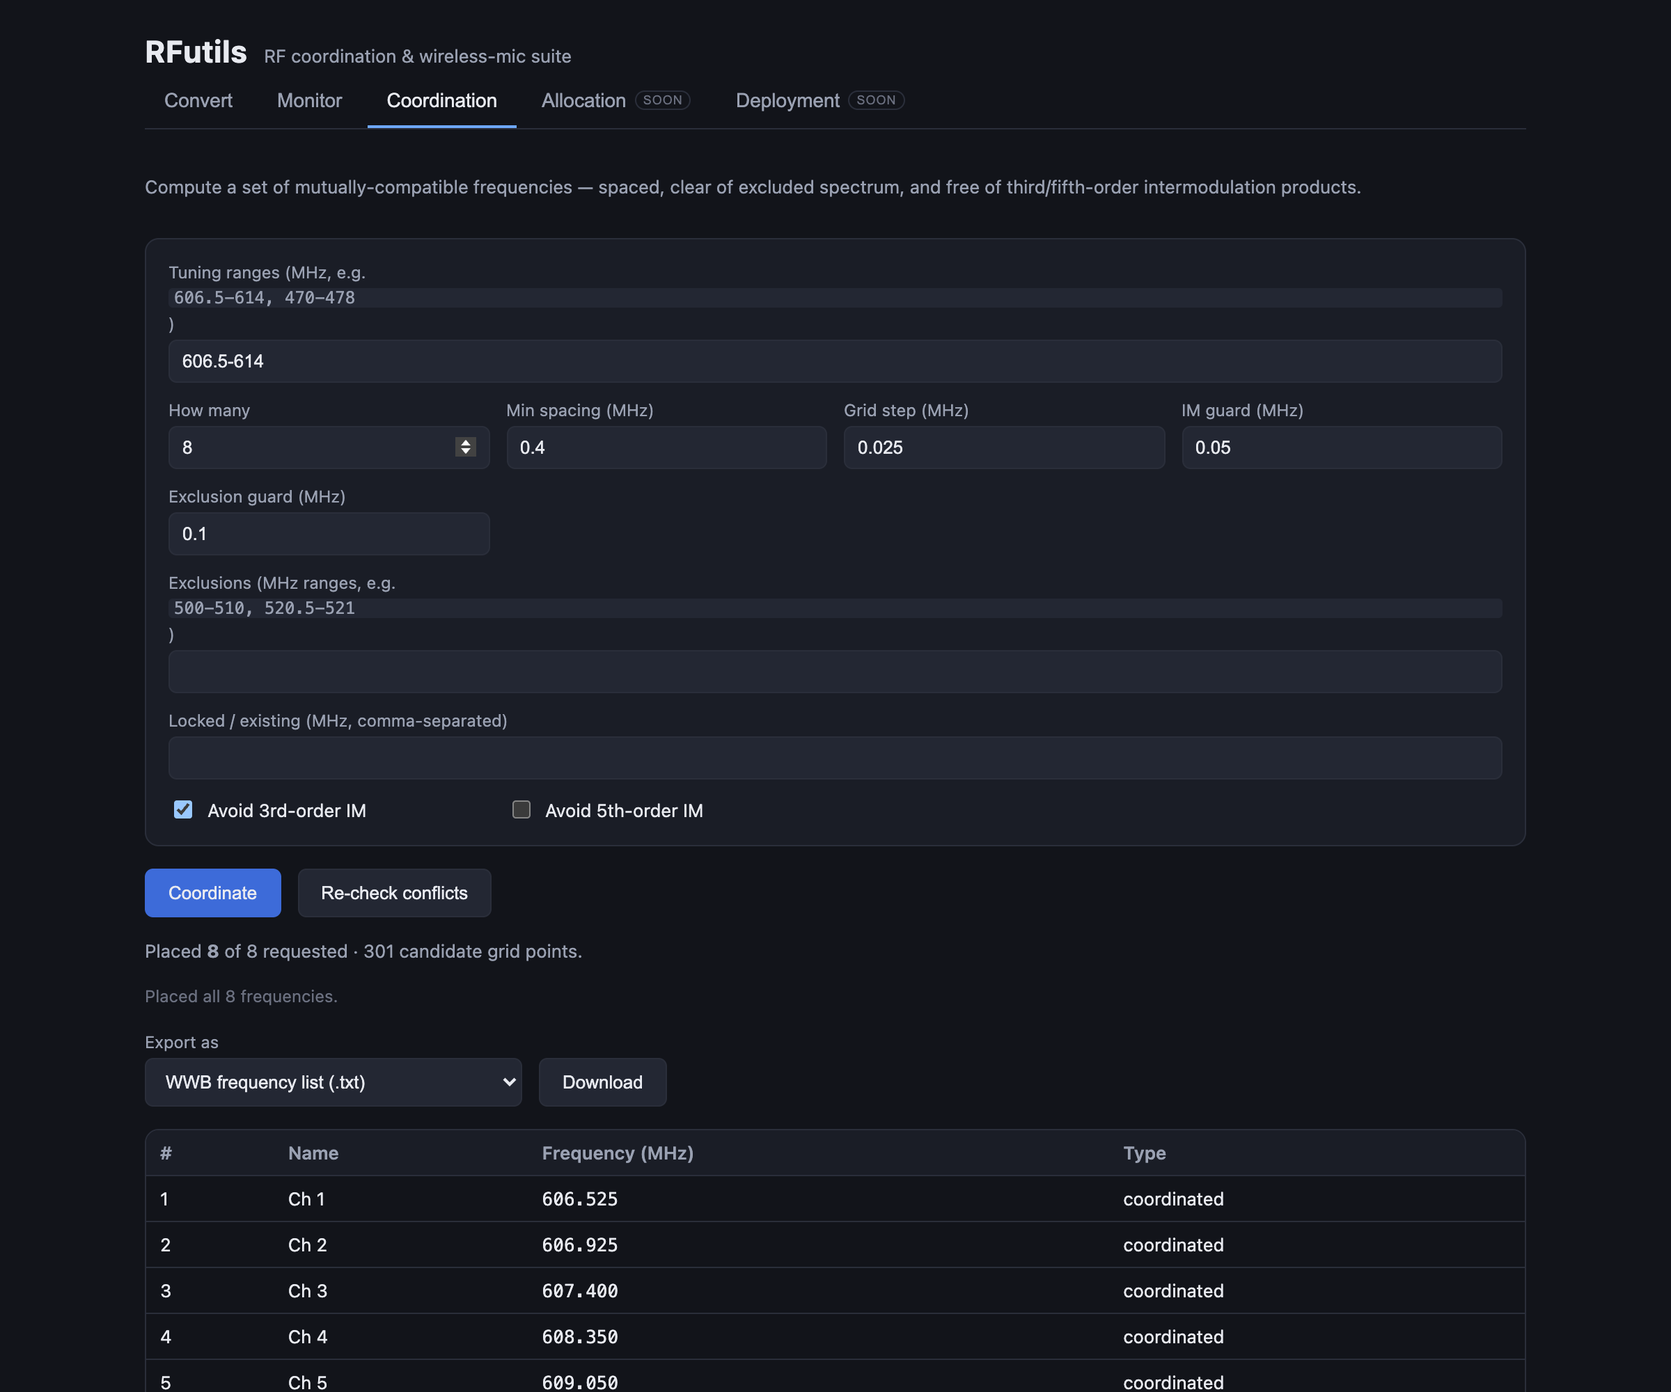
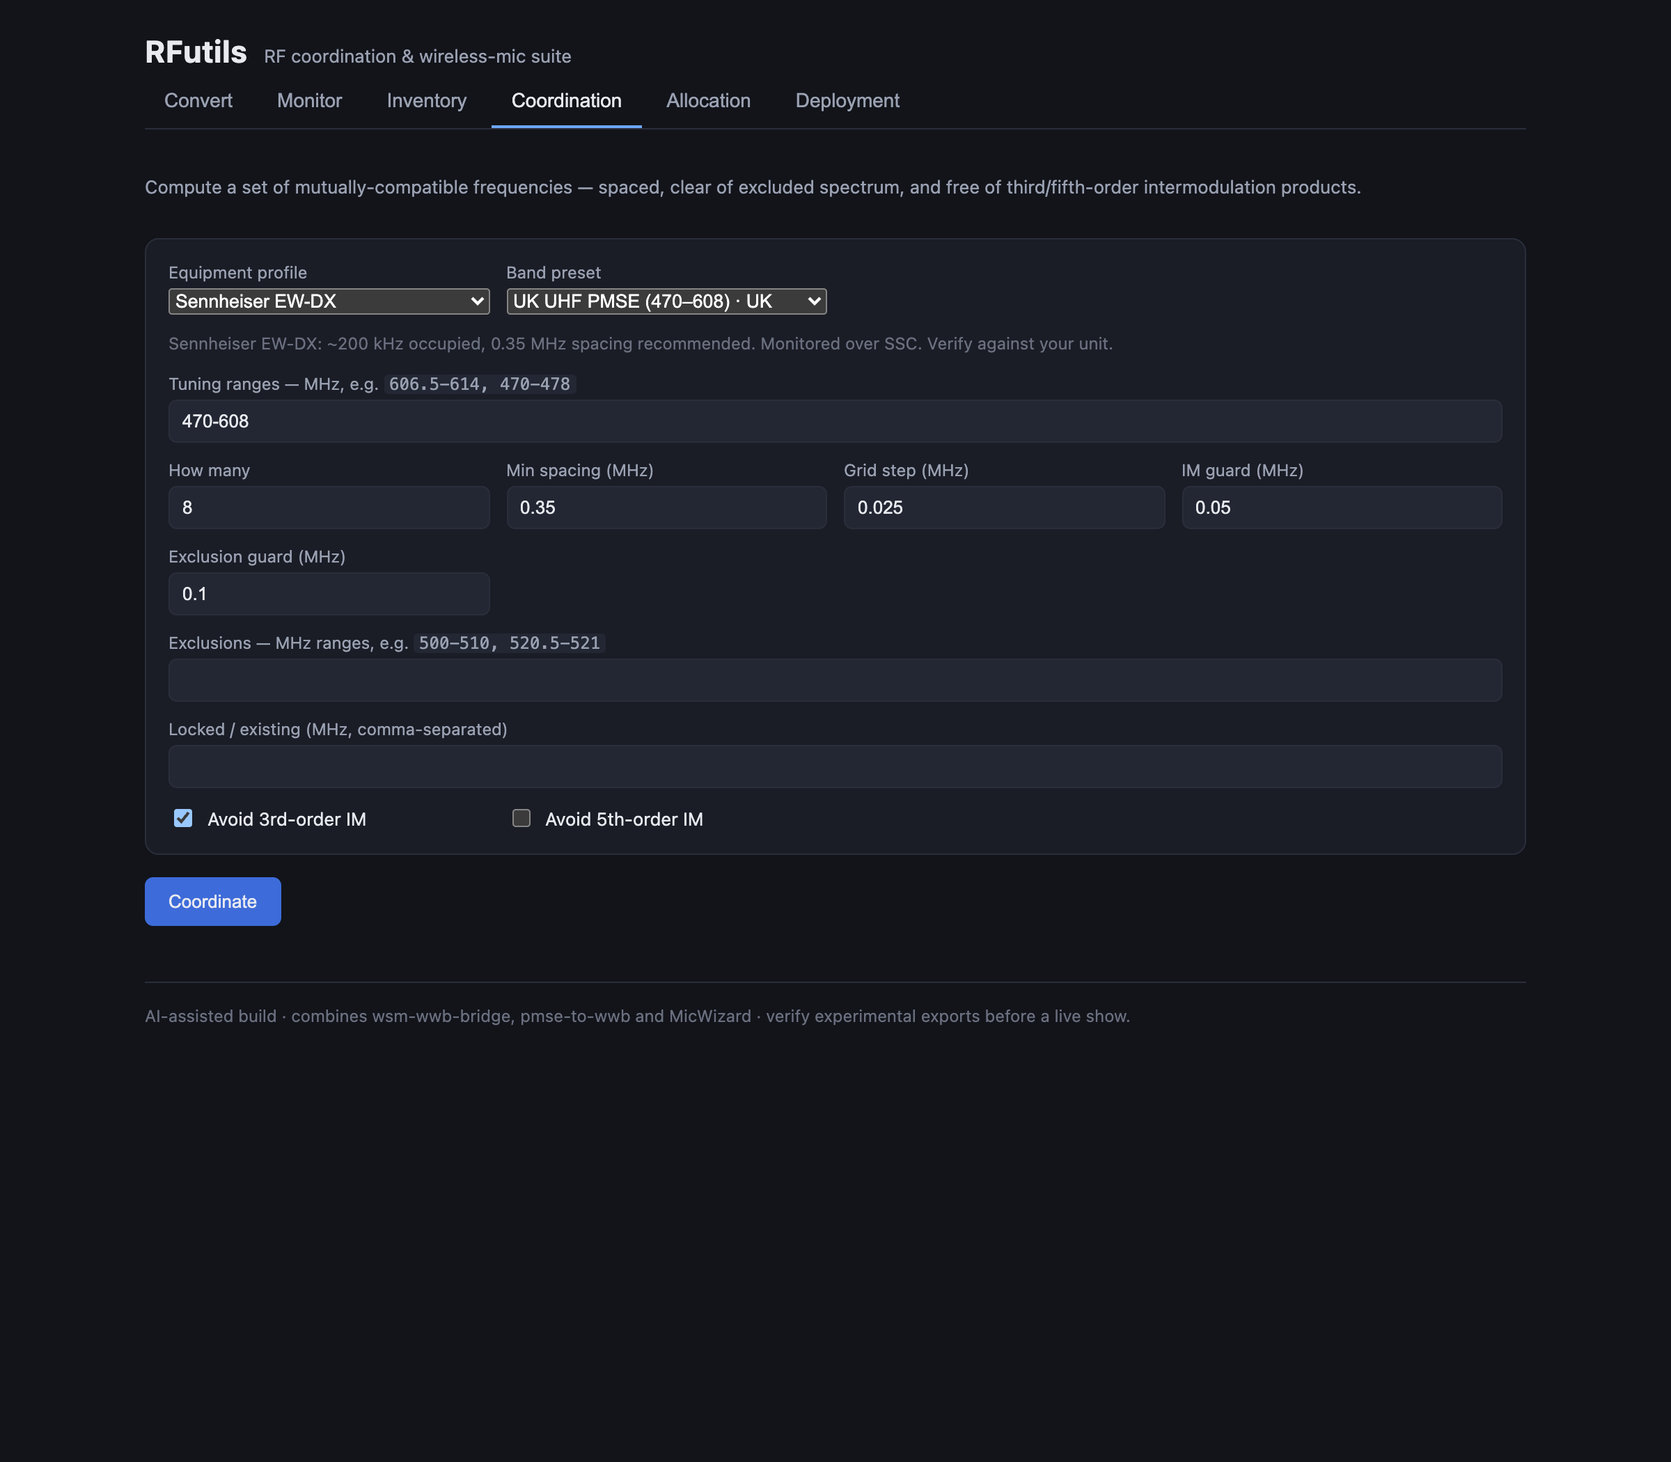
Add equipment profiles + band presets to Coordination
Pre-built catalog so coordination is "pick your gear" not "type numbers":
- shared/profiles.ts: 17 equipment profiles (Shure ULXD/QLXD/Axient/SLXD/
  PSM1000/GLXD, Sennheiser EW-DX/EW-D/6000/9000/G4/2000/IEM, Wisycom,
  Lectrosonics, Audio-Technica, Sony) with control protocol, tuning raster,
  occupied bandwidth and recommended spacing; plus 5 region-tagged band presets
  (UK Ch38, UK/US UHF core, Ch70, 2.4 GHz). All values flagged verified:false
  and documented as starting points — check against the unit/licence.
- GET /api/profiles merges the built-in catalog with an optional user
  ~/.rfutils/profiles.json (id override), so shows can add exact band variants.
- Coordination tab: Equipment-profile + Band-preset pickers that prefill
  ranges/spacing/step and show an info note (protocol, bandwidth).
- 4 catalog-integrity tests (unique ids, valid ranges, band refs resolve).
- Verified in-browser: picking EW-DX prefills 470-608 / 0.35 / 0.025 + note.

diff --git a/packages/shared/src/profiles.ts b/packages/shared/src/profiles.ts
@@ -1,0 +1,136 @@
+/**
+ * Equipment profiles + band presets for coordination.
+ *
+ * A profile captures the coordination-relevant characteristics of a product:
+ * which control protocol RFutils can talk to it with, the tuning raster, the
+ * occupied bandwidth, and a sensible recommended carrier spacing. Tuning
+ * *ranges* are deliberately NOT baked into product profiles — the usable range
+ * is region- and band-variant-specific — so ranges come from separate, clearly
+ * region-tagged band presets instead.
+ *
+ * ⚠ These are STARTING POINTS, not a substitute for the datasheet. Occupied
+ * bandwidth and recommended spacing vary by mode/region; band-preset ranges
+ * depend on your licence and local spectrum. `verified` is false throughout —
+ * check against your actual unit and licence before a live show. The catalog
+ * is user-extensible: drop a profiles.json in RFUTILS_CONFIG_DIR to add or
+ * override entries.
+ */
+
+/** Control protocol RFutils can use to talk to (and program) a device. */
+export type DeviceProtocol =
+  | 'shure-command-strings' // Shure TCP :2202 — discover, monitor, program
+  | 'sennheiser-ssc' // Sennheiser SSC — discover, monitor
+  | 'aes67' // Dante/AES67 audio (no RF control)
+  | 'analog' // IR-sync / no networked control — file export only
+  | 'other';
+
+export type EquipmentCategory = 'mic' | 'iem' | 'other';
+
+export interface EquipmentProfile {
+  id: string;
+  manufacturer: string;
+  model: string;
+  category: EquipmentCategory;
+  protocol: DeviceProtocol;
+  /** Tuning raster in kHz (25 kHz for essentially all modern UHF wireless). */
+  tuningStepKhz: number;
+  /** Typical occupied RF bandwidth per carrier, kHz. */
+  occupiedBandwidthKhz: number;
+  /** Recommended minimum carrier-to-carrier spacing, MHz. */
+  recommendedSpacingMhz: number;
+  /** Default band preset id to pair with (a sensible starting range). */
+  defaultBandPresetId?: string;
+  /** Not datasheet-verified — always false here; see module note. */
+  verified: boolean;
+  notes?: string;
+}
+
+export interface BandPreset {
+  id: string;
+  name: string;
+  /** Regulatory region this preset's ranges assume. */
+  region: 'UK' | 'EU' | 'US' | 'Global';
+  ranges: { startMhz: number; endMhz: number }[];
+  notes?: string;
+}
+
+/**
+ * Regional operating bands (the "where can I tune" ranges). Licence-dependent —
+ * verify against your PMSE/FCC authorisation. UHF cores are given as broad
+ * spans; narrow them to your cleared DTT gaps in the Coordination form.
+ */
+export const BAND_PRESETS: BandPreset[] = [
+  {
+    id: 'uk-ch38',
+    name: 'UK Ch38 (shared)',
+    region: 'UK',
+    ranges: [{ startMhz: 606.5, endMhz: 614 }],
+    notes: 'UK shared PMSE coordination band (TV channel 38).',
+  },
+  {
+    id: 'uk-uhf-core',
+    name: 'UK UHF PMSE (470–608)',
+    region: 'UK',
+    ranges: [{ startMhz: 470, endMhz: 608 }],
+    notes: 'Licensed UHF PMSE core. Exclude occupied local DTT muxes for your area.',
+  },
+  {
+    id: 'uk-ch70',
+    name: 'UK/EU Ch70 (863–865, licence-exempt)',
+    region: 'EU',
+    ranges: [{ startMhz: 863, endMhz: 865 }],
+    notes: 'Deregulated 863–865 MHz — ~4 usable channels, no licence.',
+  },
+  {
+    id: 'us-uhf-core',
+    name: 'US UHF (470–608)',
+    region: 'US',
+    ranges: [{ startMhz: 470, endMhz: 608 }],
+    notes: 'Post-repack US UHF. Avoid the 600 MHz duplex gap/guard per FCC rules.',
+  },
+  {
+    id: 'ism-2g4',
+    name: '2.4 GHz ISM (2400–2483.5)',
+    region: 'Global',
+    ranges: [{ startMhz: 2400, endMhz: 2483.5 }],
+    notes: 'Licence-exempt 2.4 GHz (e.g. Shure GLX-D). Usually auto-coordinated by the system.',
+  },
+];
+
+/**
+ * Product catalog. Ranges intentionally omitted (see band presets). Bandwidth
+ * and spacing are conservative typical values — verify per mode/datasheet.
+ */
+export const EQUIPMENT_PROFILES: EquipmentProfile[] = [
+  // --- Shure (command strings: discover / monitor / program) ---------------
+  { id: 'shure-axient-digital', manufacturer: 'Shure', model: 'Axient Digital (AD/ADX)', category: 'mic', protocol: 'shure-command-strings', tuningStepKhz: 25, occupiedBandwidthKhz: 200, recommendedSpacingMhz: 0.35, defaultBandPresetId: 'uk-uhf-core', verified: false, notes: 'Very wide tuning across many bands; set your unit\'s actual band.' },
+  { id: 'shure-ulxd', manufacturer: 'Shure', model: 'ULX-D', category: 'mic', protocol: 'shure-command-strings', tuningStepKhz: 25, occupiedBandwidthKhz: 200, recommendedSpacingMhz: 0.35, defaultBandPresetId: 'uk-uhf-core', verified: false },
+  { id: 'shure-qlxd', manufacturer: 'Shure', model: 'QLX-D', category: 'mic', protocol: 'shure-command-strings', tuningStepKhz: 25, occupiedBandwidthKhz: 200, recommendedSpacingMhz: 0.35, defaultBandPresetId: 'uk-uhf-core', verified: false },
+  { id: 'shure-slxd', manufacturer: 'Shure', model: 'SLX-D', category: 'mic', protocol: 'shure-command-strings', tuningStepKhz: 25, occupiedBandwidthKhz: 200, recommendedSpacingMhz: 0.4, defaultBandPresetId: 'uk-uhf-core', verified: false, notes: 'Networked control only on Ethernet variants.' },
+  { id: 'shure-psm1000', manufacturer: 'Shure', model: 'PSM 1000 (IEM)', category: 'iem', protocol: 'shure-command-strings', tuningStepKhz: 25, occupiedBandwidthKhz: 200, recommendedSpacingMhz: 0.4, defaultBandPresetId: 'uk-uhf-core', verified: false },
+  { id: 'shure-glxd', manufacturer: 'Shure', model: 'GLX-D', category: 'mic', protocol: 'other', tuningStepKhz: 25, occupiedBandwidthKhz: 200, recommendedSpacingMhz: 0.4, defaultBandPresetId: 'ism-2g4', verified: false, notes: '2.4 GHz, self-coordinating; not UHF.' },
+
+  // --- Sennheiser (SSC: discover / monitor) --------------------------------
+  { id: 'sennheiser-ewdx', manufacturer: 'Sennheiser', model: 'EW-DX', category: 'mic', protocol: 'sennheiser-ssc', tuningStepKhz: 25, occupiedBandwidthKhz: 200, recommendedSpacingMhz: 0.35, defaultBandPresetId: 'uk-uhf-core', verified: false },
+  { id: 'sennheiser-ewd', manufacturer: 'Sennheiser', model: 'EW-D', category: 'mic', protocol: 'sennheiser-ssc', tuningStepKhz: 25, occupiedBandwidthKhz: 200, recommendedSpacingMhz: 0.6, defaultBandPresetId: 'uk-uhf-core', verified: false, notes: 'Equidistant tuning; wider default spacing.' },
+  { id: 'sennheiser-d6000', manufacturer: 'Sennheiser', model: 'Digital 6000', category: 'mic', protocol: 'sennheiser-ssc', tuningStepKhz: 25, occupiedBandwidthKhz: 200, recommendedSpacingMhz: 0.4, defaultBandPresetId: 'uk-uhf-core', verified: false },
+  { id: 'sennheiser-d9000', manufacturer: 'Sennheiser', model: 'Digital 9000', category: 'mic', protocol: 'sennheiser-ssc', tuningStepKhz: 25, occupiedBandwidthKhz: 200, recommendedSpacingMhz: 0.4, defaultBandPresetId: 'uk-uhf-core', verified: false, notes: 'In HD mode can pack tightly; verify per mode.' },
+  { id: 'sennheiser-ew-g4', manufacturer: 'Sennheiser', model: 'evolution wireless G4', category: 'mic', protocol: 'analog', tuningStepKhz: 25, occupiedBandwidthKhz: 200, recommendedSpacingMhz: 0.4, defaultBandPresetId: 'uk-uhf-core', verified: false, notes: 'Analog FM, IR-sync only — no networked control; file export.' },
+  { id: 'sennheiser-2000', manufacturer: 'Sennheiser', model: '2000 series', category: 'mic', protocol: 'analog', tuningStepKhz: 25, occupiedBandwidthKhz: 200, recommendedSpacingMhz: 0.4, defaultBandPresetId: 'uk-uhf-core', verified: false },
+  { id: 'sennheiser-iem-g4', manufacturer: 'Sennheiser', model: 'IEM G4 (SR)', category: 'iem', protocol: 'analog', tuningStepKhz: 25, occupiedBandwidthKhz: 200, recommendedSpacingMhz: 0.4, defaultBandPresetId: 'uk-uhf-core', verified: false },
+
+  // --- Other manufacturers (file export; no RFutils control adapter yet) ---
+  { id: 'wisycom-mtp', manufacturer: 'Wisycom', model: 'MTP / MCR (wideband)', category: 'mic', protocol: 'other', tuningStepKhz: 25, occupiedBandwidthKhz: 200, recommendedSpacingMhz: 0.35, defaultBandPresetId: 'uk-uhf-core', verified: false, notes: 'Very wide tuning; no RFutils control adapter — export files.' },
+  { id: 'lectrosonics-duet', manufacturer: 'Lectrosonics', model: 'Digital (D2/DSQD)', category: 'mic', protocol: 'other', tuningStepKhz: 25, occupiedBandwidthKhz: 200, recommendedSpacingMhz: 0.35, defaultBandPresetId: 'uk-uhf-core', verified: false },
+  { id: 'audiotechnica-5000', manufacturer: 'Audio-Technica', model: '5000 series', category: 'mic', protocol: 'other', tuningStepKhz: 25, occupiedBandwidthKhz: 200, recommendedSpacingMhz: 0.4, defaultBandPresetId: 'uk-uhf-core', verified: false },
+  { id: 'sony-dwx', manufacturer: 'Sony', model: 'DWX series', category: 'mic', protocol: 'other', tuningStepKhz: 25, occupiedBandwidthKhz: 200, recommendedSpacingMhz: 0.35, defaultBandPresetId: 'uk-uhf-core', verified: false },
+];
+
+export interface ProfileCatalog {
+  profiles: EquipmentProfile[];
+  bandPresets: BandPreset[];
+}
+
+export function builtinCatalog(): ProfileCatalog {
+  return { profiles: EQUIPMENT_PROFILES, bandPresets: BAND_PRESETS };
+}

diff --git a/packages/web/src/tabs/CoordinationTab.tsx b/packages/web/src/tabs/CoordinationTab.tsx
@@ -1,14 +1,19 @@
-import { useState } from 'react';
+import { useEffect, useState } from 'react';
 import type {
   CoordinationParams,
   CoordinationResult,
   AnalysisResult,
   FreqRange,
   ExportFormat,
+  ProfileCatalog,
 } from '@rfutils/shared';
 import { defaultCoordinationParams, EXPORT_FORMATS } from '@rfutils/shared';
-import { coordinateFrequencies, analyzeFrequencies, exportModel } from '../api.js';
+import { coordinateFrequencies, analyzeFrequencies, exportModel, getProfiles } from '../api.js';
 import { usePlanStore } from '../planStore.js';
+
+function formatRanges(ranges: FreqRange[]): string {
+  return ranges.map((r) => `${r.startMhz}-${r.endMhz}`).join(', ');
+}
 
 function parseRanges(text: string): FreqRange[] {
   return text
@@ -56,6 +61,37 @@ export function CoordinationTab(): JSX.Element {
   const [error, setError] = useState<string | null>(null);
   const [busy, setBusy] = useState(false);
   const [exportFormat, setExportFormat] = useState<ExportFormat>('wwb-frequency-list');
+
+  const [catalog, setCatalog] = useState<ProfileCatalog | null>(null);
+  const [bandId, setBandId] = useState('');
+  const [profileId, setProfileId] = useState('');
+  const [profileNote, setProfileNote] = useState<string | null>(null);
+
+  useEffect(() => {
+    getProfiles().then(setCatalog).catch(() => setCatalog(null));
+  }, []);
+
+  const applyBand = (id: string): void => {
+    setBandId(id);
+    const preset = catalog?.bandPresets.find((b) => b.id === id);
+    if (preset) setRangesText(formatRanges(preset.ranges));
+  };
+
+  const applyProfile = (id: string): void => {
+    setProfileId(id);
+    const profile = catalog?.profiles.find((p) => p.id === id);
+    if (!profile) {
+      setProfileNote(null);
+      return;
+    }
+    setSpacing(profile.recommendedSpacingMhz);
+    setStep(profile.tuningStepKhz / 1000);
+    if (profile.defaultBandPresetId) applyBand(profile.defaultBandPresetId);
+    setProfileNote(
+      `${profile.manufacturer} ${profile.model}: ~${profile.occupiedBandwidthKhz} kHz occupied, ` +
+        `${profile.recommendedSpacingMhz} MHz spacing recommended. ${profile.protocol === 'shure-command-strings' ? 'Programmable over the network.' : profile.protocol === 'sennheiser-ssc' ? 'Monitored over SSC.' : 'File export only.'} Verify against your unit.`
+    );
+  };
 
   const buildParams = (): CoordinationParams => ({
     ranges: parseRanges(rangesText),
@@ -126,6 +162,29 @@ export function CoordinationTab(): JSX.Element {
       </p>
 
       <div className="coord-form">
+        <label className="field">
+          Equipment profile
+          <select value={profileId} onChange={(e) => applyProfile(e.target.value)}>
+            <option value="">— pick gear (prefills spacing/step) —</option>
+            {catalog?.profiles.map((p) => (
+              <option key={p.id} value={p.id}>
+                {p.manufacturer} {p.model}
+              </option>
+            ))}
+          </select>
+        </label>
+        <label className="field">
+          Band preset
+          <select value={bandId} onChange={(e) => applyBand(e.target.value)}>
+            <option value="">— pick a band (prefills ranges) —</option>
+            {catalog?.bandPresets.map((b) => (
+              <option key={b.id} value={b.id}>
+                {b.name} · {b.region}
+              </option>
+            ))}
+          </select>
+        </label>
+        {profileNote && <p className="field--wide export-note">{profileNote}</p>}
         <label className="field field--wide">
           <span>
             Tuning ranges — MHz, e.g. <code>606.5-614, 470-478</code>

diff --git a/packages/server/src/profiles/catalog.ts b/packages/server/src/profiles/catalog.ts
@@ -1,0 +1,39 @@
+/**
+ * Serves the equipment-profile / band-preset catalog: the built-in list from
+ * @rfutils/shared merged with an optional user file at
+ * RFUTILS_CONFIG_DIR/profiles.json (default ~/.rfutils/profiles.json). User
+ * entries with the same id override built-ins, so a show can add its exact
+ * band variants without touching the code.
+ */
+
+import path from 'node:path';
+import os from 'node:os';
+import fs from 'node:fs';
+import type { ProfileCatalog, EquipmentProfile, BandPreset } from '@rfutils/shared';
+import { builtinCatalog } from '@rfutils/shared';
+
+function configDir(): string {
+  return process.env.RFUTILS_CONFIG_DIR ?? path.join(os.homedir(), '.rfutils');
+}
+
+function mergeById<T extends { id: string }>(base: T[], extra: T[]): T[] {
+  const byId = new Map(base.map((x) => [x.id, x]));
+  for (const item of extra) if (item && typeof item.id === 'string') byId.set(item.id, item);
+  return [...byId.values()];
+}
+
+export function loadCatalog(): ProfileCatalog {
+  const builtin = builtinCatalog();
+  const file = path.join(configDir(), 'profiles.json');
+  if (!fs.existsSync(file)) return builtin;
+  try {
+    const user = JSON.parse(fs.readFileSync(file, 'utf8')) as Partial<ProfileCatalog>;
+    return {
+      profiles: mergeById(builtin.profiles, (user.profiles ?? []) as EquipmentProfile[]),
+      bandPresets: mergeById(builtin.bandPresets, (user.bandPresets ?? []) as BandPreset[]),
+    };
+  } catch (err) {
+    console.error(`[profiles] failed to parse ${file}:`, (err as Error).message);
+    return builtin;
+  }
+}

diff --git a/packages/server/test/profiles.test.ts b/packages/server/test/profiles.test.ts
@@ -1,0 +1,37 @@
+import { describe, it, expect } from 'vitest';
+import { builtinCatalog } from '@rfutils/shared';
+
+describe('equipment profile catalog', () => {
+  const { profiles, bandPresets } = builtinCatalog();
+
+  it('has unique profile and band ids', () => {
+    expect(new Set(profiles.map((p) => p.id)).size).toBe(profiles.length);
+    expect(new Set(bandPresets.map((b) => b.id)).size).toBe(bandPresets.length);
+  });
+
+  it('has sane profile values', () => {
+    for (const p of profiles) {
+      expect(p.tuningStepKhz).toBeGreaterThan(0);
+      expect(p.occupiedBandwidthKhz).toBeGreaterThan(0);
+      expect(p.recommendedSpacingMhz).toBeGreaterThan(0);
+      // nothing is claimed as datasheet-verified
+      expect(p.verified).toBe(false);
+    }
+  });
+
+  it('has valid, ascending band-preset ranges', () => {
+    for (const b of bandPresets) {
+      expect(b.ranges.length).toBeGreaterThan(0);
+      for (const r of b.ranges) {
+        expect(r.endMhz).toBeGreaterThan(r.startMhz);
+      }
+    }
+  });
+
+  it('profile defaultBandPresetId always resolves to a real preset', () => {
+    const ids = new Set(bandPresets.map((b) => b.id));
+    for (const p of profiles) {
+      if (p.defaultBandPresetId) expect(ids.has(p.defaultBandPresetId)).toBe(true);
+    }
+  });
+});

diff --git a/packages/server/src/routes.ts b/packages/server/src/routes.ts
@@ -14,6 +14,7 @@ import { convertLicence, generateShow } from './pmse/index.js';
 import type { MonitorService } from './monitor/index.js';
 import { coordinate, analyze } from './coordination/engine.js';
 import { loadInventory, saveInventory } from './inventory/store.js';
+import { loadCatalog } from './profiles/catalog.js';
 import { buildShureSetCommand, sendShureCommands, type ProgramTargetResult } from './programming/shureProgrammer.js';
 import type { CoordinationParams, InventoryItem } from '@rfutils/shared';
 
@@ -155,6 +156,11 @@ export function createApiRouter(monitor: MonitorService): Router {
     } catch (err) {
       res.status(500).json({ error: (err as Error).message });
     }
+  });
+
+  /** Equipment profiles + band presets (built-in merged with the user's file). */
+  router.get('/profiles', (_req: Request, res: Response) => {
+    res.json(loadCatalog());
   });
 
   /** Analyze an existing set for conflicts. Body: { frequencies: number[], params }. */

diff --git a/packages/web/src/api.ts b/packages/web/src/api.ts
@@ -20,6 +20,7 @@ import type {
   Inventory,
   InventoryItem,
   DiscoveredDevice,
+  ProfileCatalog,
 } from '@rfutils/shared';
 
 async function asJson<T>(res: Response): Promise<T> {
@@ -91,6 +92,10 @@ export async function analyzeFrequencies(
       body: JSON.stringify({ frequencies, params }),
     })
   );
+}
+
+export async function getProfiles(): Promise<ProfileCatalog> {
+  return asJson<ProfileCatalog>(await fetch('/api/profiles'));
 }
 
 export async function getInventory(): Promise<Inventory> {

diff --git a/packages/shared/src/index.ts b/packages/shared/src/index.ts
@@ -4,3 +4,4 @@ export * from './pmse.js';
 export * from './protocol.js';
 export * from './coordination.js';
 export * from './inventory.js';
+export * from './profiles.js';

diff --git a/README.md b/README.md
@@ -210,8 +210,13 @@ API control still requires Audinate's SDK (see `packages/server/src/monitor/audi
 
 ## Coordinate
 
-Compute a set of mutually-compatible frequencies. Enter tuning ranges, how many you need, spacing,
-and IM options; the engine builds a candidate grid (ranges minus exclusions + guard) and places
+Compute a set of mutually-compatible frequencies. Pick an **equipment profile** (Shure, Sennheiser,
+Wisycom, Lectrosonics, Audio-Technica, Sony …) to prefill the tuning raster and recommended
+spacing, and a **band preset** (UK Ch38, UK/US UHF core, Ch70, 2.4 GHz …) to prefill the ranges —
+or type them in. The profile catalog is a starting point (values are flagged unverified — check
+against your unit and licence) and is user-extensible via `~/.rfutils/profiles.json`. Then set how
+many you need, spacing, and IM options; the engine builds a candidate grid (ranges minus exclusions
++ guard) and places
 carriers that are adequately spaced and free of third-order (`2·f1−f2`, `f1+f2−f3`) and optional
 fifth-order (`3·f1−2·f2`) intermodulation products landing on any carrier. Lock existing
 frequencies to coordinate around them, re-check the result for conflicts, and export straight to
